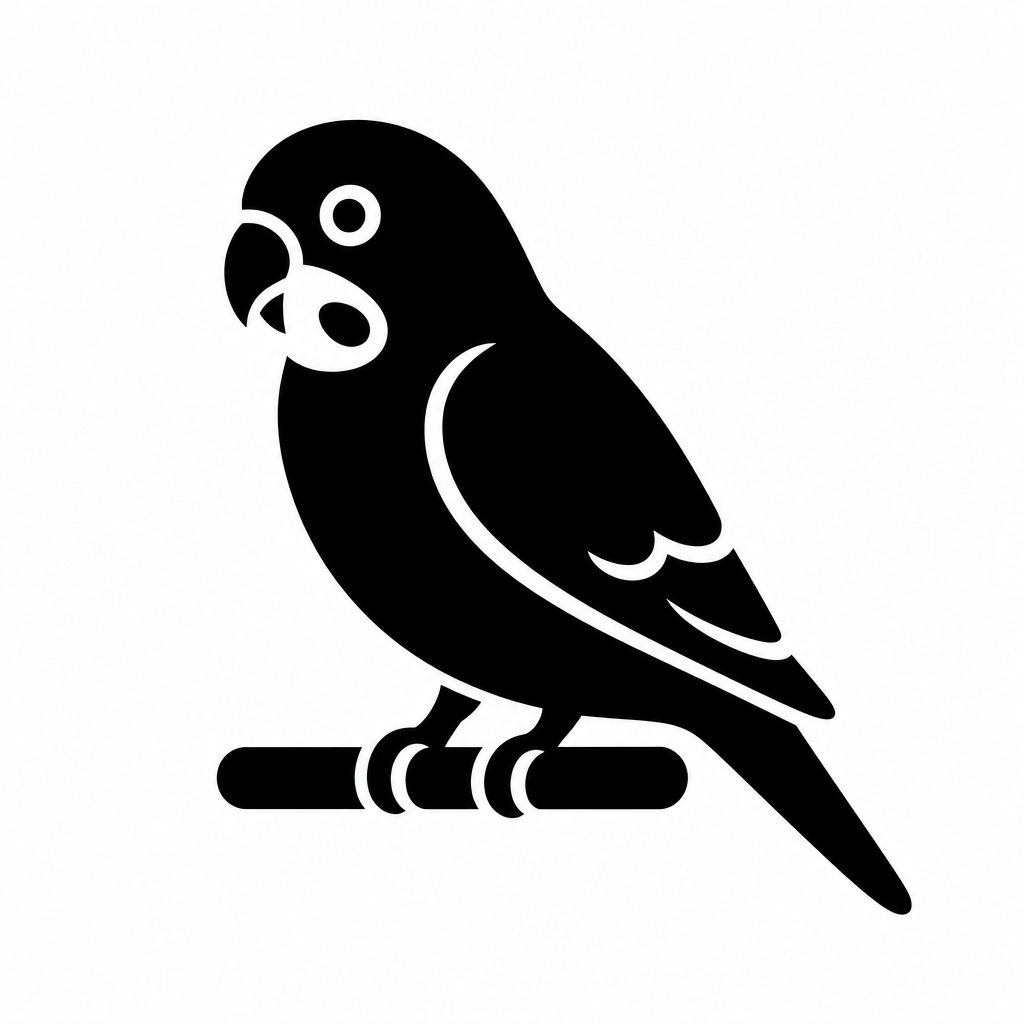
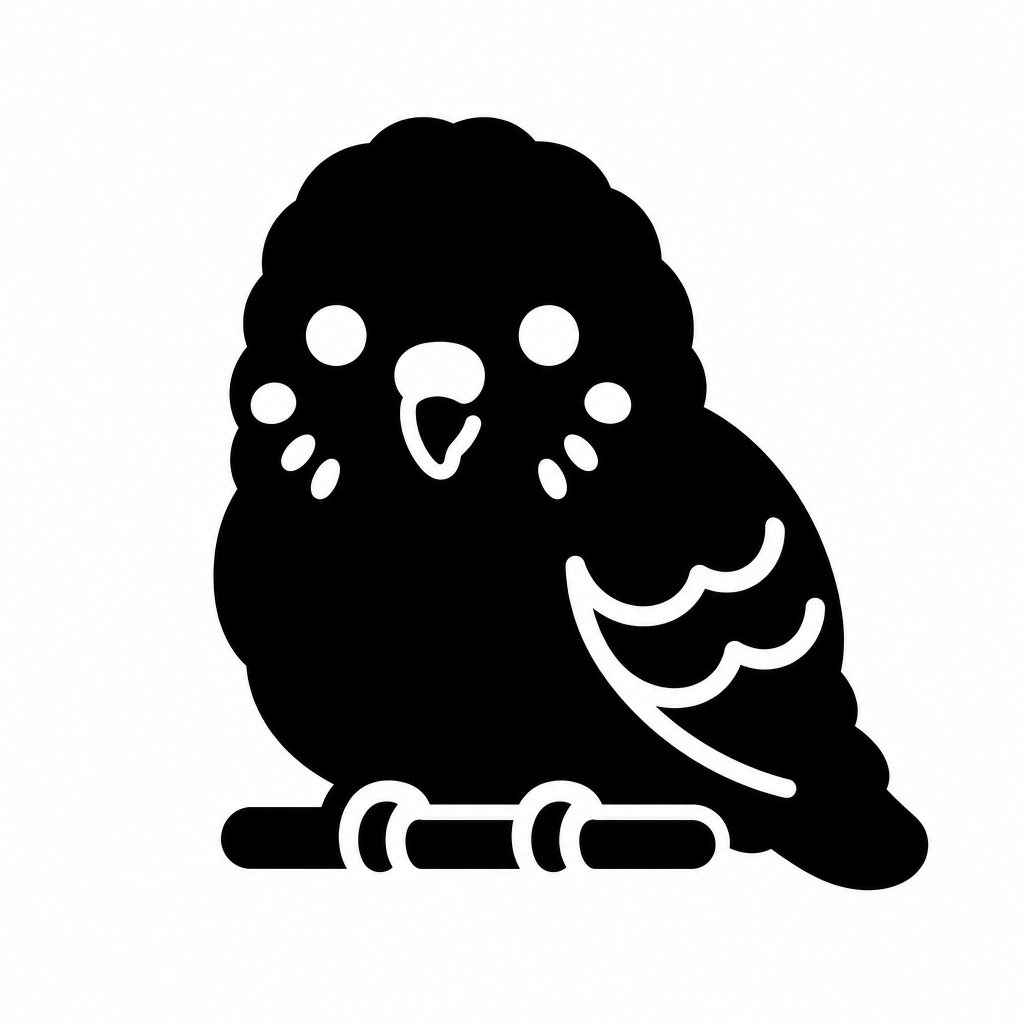
design: 動物アイコンの生成候補

Changed region(s): [[0.1875, 0.0938, 0.9062, 0.9062]]

diff --git a/design/GEN_REPORT.md b/design/GEN_REPORT.md
@@ -1,6 +1,10 @@
-# 動物アイコン候補（画像生成: gpt-image-2・品質 medium）
+# 動物アイコン候補（画像生成: responses+image_generation（基準: ref_poodle.png）・品質 medium）
 
-- bird: 候補 2/2 枚（usage {"input_tokens": 396, "input_tokens_details": {"image_tokens": 0, "text_tokens": 396}, "output_tokens": 3512, "output_tokens_details": {"image_tokens": 3512, "text_tokens": 0}, "total_tokens": 3908}）
-- fish: 候補 2/2 枚（usage {"input_tokens": 370, "input_tokens_details": {"image_tokens": 0, "text_tokens": 370}, "output_tokens": 3512, "output_tokens_details": {"image_tokens": 3512, "text_tokens": 0}, "total_tokens": 3882}）
+- cat: 候補 2/2 枚（usage {"input_tokens": 4989, "input_tokens_details": {"cache_write_tokens": 0, "cached_tokens": 1664}, "output_tokens": 1875, "output_tokens_details": {"reasoning_tokens": 960}, "total_tokens": 6864}）
+- small: 候補 2/2 枚（usage {"input_tokens": 4891, "input_tokens_details": {"cache_write_tokens": 0, "cached_tokens": 1664}, "output_tokens": 1778, "output_tokens_details": {"reasoning_tokens": 1152}, "total_tokens": 6669}）
+- reptile: 候補 2/2 枚（usage {"input_tokens": 4573, "input_tokens_details": {"cache_write_tokens": 0, "cached_tokens": 1536}, "output_tokens": 1441, "output_tokens_details": {"reasoning_tokens": 640}, "total_tokens": 6014}）
+- bird: 候補 2/2 枚（usage {"input_tokens": 4925, "input_tokens_details": {"cache_write_tokens": 0, "cached_tokens": 1536}, "output_tokens": 1795, "output_tokens_details": {"reasoning_tokens": 960}, "total_tokens": 6720}）
+- fish: 候補 2/2 枚（usage {"input_tokens": 5127, "input_tokens_details": {"cache_write_tokens": 0, "cached_tokens": 1664}, "output_tokens": 2008, "output_tokens_details": {"reasoning_tokens": 1344}, "total_tokens": 7135}）
+- paw: 候補 2/2 枚（usage {"input_tokens": 4493, "input_tokens_details": {"cache_write_tokens": 0, "cached_tokens": 1664}, "output_tokens": 1381, "output_tokens_details": {"reasoning_tokens": 896}, "total_tokens": 5874}）
 
 見本：design/candidates.png、元画像：design/gen/
